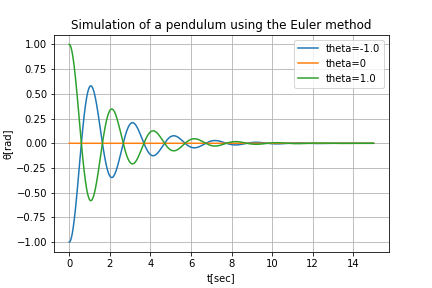
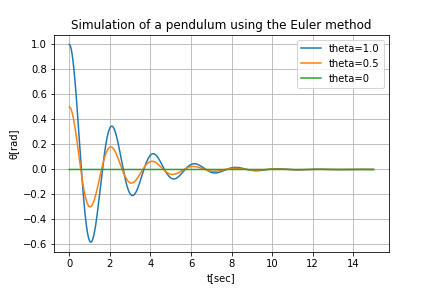
update

diff --git a/2023/simulate_pendulum_kutta4.py b/2023/simulate_pendulum_kutta4.py
@@ -1,0 +1,57 @@
+# -*- coding: utf-8 -*-
+"""
+Created on Mon May 22 15:23:14 2023
+4 dim
+"""
+
+import numpy as np
+from plot_simulate import *
+def simulate_pendulum_kutta2(p):
+    l = p['l']
+    m = p['m']
+    k = p['k']
+    g = p['g']
+    theta_dot = p['theta_dot']
+    t_f = p['t_f']
+    t_e = p['t_e']
+    h = p['h']
+
+    theta = [p['theta']]
+    t = [t_f]
+
+    # 4次のルンゲ・クッタ法で微分方程式を解く
+    i = 0
+    while t[i] <= t_e:
+        k1_theta_dot = h * theta_dot
+        k1_theta_ddot = h * (-(k / m) * theta_dot - (g / l) * np.sin(theta[i]))
+
+        k2_theta_dot = h * (theta_dot + 0.5 * k1_theta_ddot)
+        k2_theta_ddot = h * (-(k / m) * (theta_dot + 0.5 * k1_theta_ddot) - (g / l) * np.sin(theta[i] + 0.5 * k1_theta_dot))
+
+        k3_theta_dot = h * (theta_dot + 0.5 * k2_theta_ddot)
+        k3_theta_ddot = h * (-(k / m) * (theta_dot + 0.5 * k2_theta_ddot) - (g / l) * np.sin(theta[i] + 0.5 * k2_theta_dot))
+
+        k4_theta_dot = h * (theta_dot + k3_theta_ddot)
+        k4_theta_ddot = h * (-(k / m) * (theta_dot + k3_theta_ddot) - (g / l) * np.sin(theta[i] + k3_theta_dot))
+
+        theta_dot += (1 / 6) * (k1_theta_ddot + 2 * k2_theta_ddot + 2 * k3_theta_ddot + k4_theta_ddot)
+        theta.append(theta[i] + (1 / 6) * (k1_theta_dot + 2 * k2_theta_dot + 2 * k3_theta_dot + k4_theta_dot))
+        t.append(t[i] + h)
+        i += 1
+
+    return theta, t
+
+if __name__=='__main__':
+    parameters = {
+        'l' : 0.5, # 糸の長さ
+        'm' : 1.0,  # 重りの重さ
+        'k' : 1.0,  # 粘性減衰係数
+        'g' : 9.80665,  # 重力加速度
+        'theta' : 1.0,  # 振り子の初期角度
+        'theta_dot' : 0.0,  # 角速度の初期値
+        't_f' : 0.0,  # 開始時刻
+        't_e' : 15.0,  # 終了時刻
+        # hのリスト
+        'h' : [0.05, 0.02, 0.001]
+    }
+    sim_pendulum_plot(parameters, 'h' , 'ex1-3-4out.png')

diff --git a/2023/simulate_pendulum_kutta2.py b/2023/simulate_pendulum_kutta2.py
@@ -1,0 +1,50 @@
+# -*- coding: utf-8 -*-
+"""
+Created on Mon May 22 15:27:49 2023
+
+"""
+
+import numpy as np
+from plot_simulate import *
+def simulate_pendulum_kutta2(p):
+    l = p['l']
+    m = p['m']
+    k = p['k']
+    g = p['g']
+    theta_dot = p['theta_dot']
+    t_f = p['t_f']
+    t_e = p['t_e']
+    h = p['h']
+
+    theta = [p['theta']]
+    t = [t_f]
+
+    # 2次のルンゲ・クッタ法で微分方程式を解く
+    i = 0
+    while t[i] <= t_e:
+        k1_theta_dot = h * theta_dot
+        k1_theta_ddot = h * (-(k / m) * theta_dot - (g / l) * np.sin(theta[i]))
+
+        k2_theta_dot = h * (theta_dot + 0.5 * k1_theta_ddot)
+        k2_theta_ddot = h * (-(k / m) * (theta_dot + 0.5 * k1_theta_ddot) - (g / l) * np.sin(theta[i] + 0.5 * k1_theta_dot))
+
+        theta_dot += k2_theta_ddot
+        theta.append(theta[i] + k2_theta_dot)
+        t.append(t[i] + h)
+        i += 1
+
+    return theta, t
+if __name__=='__main__':
+    parameters = {
+        'l' : 0.5, # 糸の長さ
+        'm' : 1.0,  # 重りの重さ
+        'k' : 1.0,  # 粘性減衰係数
+        'g' : 9.80665,  # 重力加速度
+        'theta' : 1.0,  # 振り子の初期角度
+        'theta_dot' : 0.0,  # 角速度の初期値
+        't_f' : 0.0,  # 開始時刻
+        't_e' : 15.0,  # 終了時刻
+        # hのリスト
+        'h' : [0.05, 0.02, 0.001]
+    }
+    sim_pendulum_plot(parameters, 'h' , 'ex1-3-2out.png')

diff --git a/2023/ex2-2.py b/2023/ex2-2.py
@@ -1,0 +1,42 @@
+# -*- coding: utf-8 -*-
+"""
+Created on Mon May 22 14:54:52 2023
+
+"""
+import numpy as np
+import matplotlib.pyplot as plt
+from simulate_i import *
+
+p = {
+    'R' : 1.0, 
+    'L' : 0.5,  
+    'C' : 0.2,
+    'u' : 1.0,
+    't_f' : 0.0,  # 開始時刻
+    't_e' : 10.0,  # 終了時刻
+    'h' : 0.001 # 刻み幅
+}
+
+y,t = simulate_rlc_i(p)
+plt.plot(t, y, label=f"R={p['R']},L={p['L']},C={p['C']}")
+
+
+p['R']=1.5
+p['L']=0.8
+p['C']=0.8
+y,t = simulate_rlc_i(p)
+plt.plot(t, y, label=f"R={p['R']},L={p['L']},C={p['C']}")
+
+p['R']=2
+p['L']=1
+p['C']=1
+y,t = simulate_rlc_i(p)
+plt.plot(t, y, label=f"R={p['R']},L={p['L']},C={p['C']}")
+
+# グラフのプロット
+plt.xlabel('t[sec]')
+plt.ylabel('y(t)[V]')
+plt.title("Simulating an RLC series circuit using Euler's method")
+plt.grid(True)
+plt.legend()
+plt.savefig(f"./out/ex2-1-out.png")

diff --git a/2023/simulate_i.py b/2023/simulate_i.py
@@ -1,0 +1,29 @@
+# -*- coding: utf-8 -*-
+"""
+Created on Mon May 22 14:54:23 2023
+
+"""
+
+import numpy as np
+
+def simulate_rlc_i(p):
+    R = p['R']
+    L = p['L']
+    C = p['C']
+    u = p['u']
+    t_e = p['t_e']
+    h = p['h']
+    i = [0.0]
+    i_dot = 0.0
+    t = [p['t_f']]
+
+    # オイラー法で微分方程式を解く
+    n = 0
+    while t[n] <= t_e:
+        # オイラー法による更新式
+        i_ddot = (1 / L) * u - (R / L) * i_dot - (1 / L / C) * i[n]
+        i_dot += h * i_ddot
+        i.append(i[n] + h * i_dot)
+        t.append(t[n] + h)
+        n += 1
+    return i, t

diff --git a/2023/ex1-2.py b/2023/ex1-2.py
@@ -35,7 +35,7 @@ p['k']=[0.5,1,1.5]
 simu(p,'k','ex1-2-k-out.png')
 
 init_p()
-p['theta']=[-1.0,0,1.0]
+p['theta']=[1.0,0.5,0]
 simu(p,'theta','ex1-2-theta-out.png')
 
 init_p()
